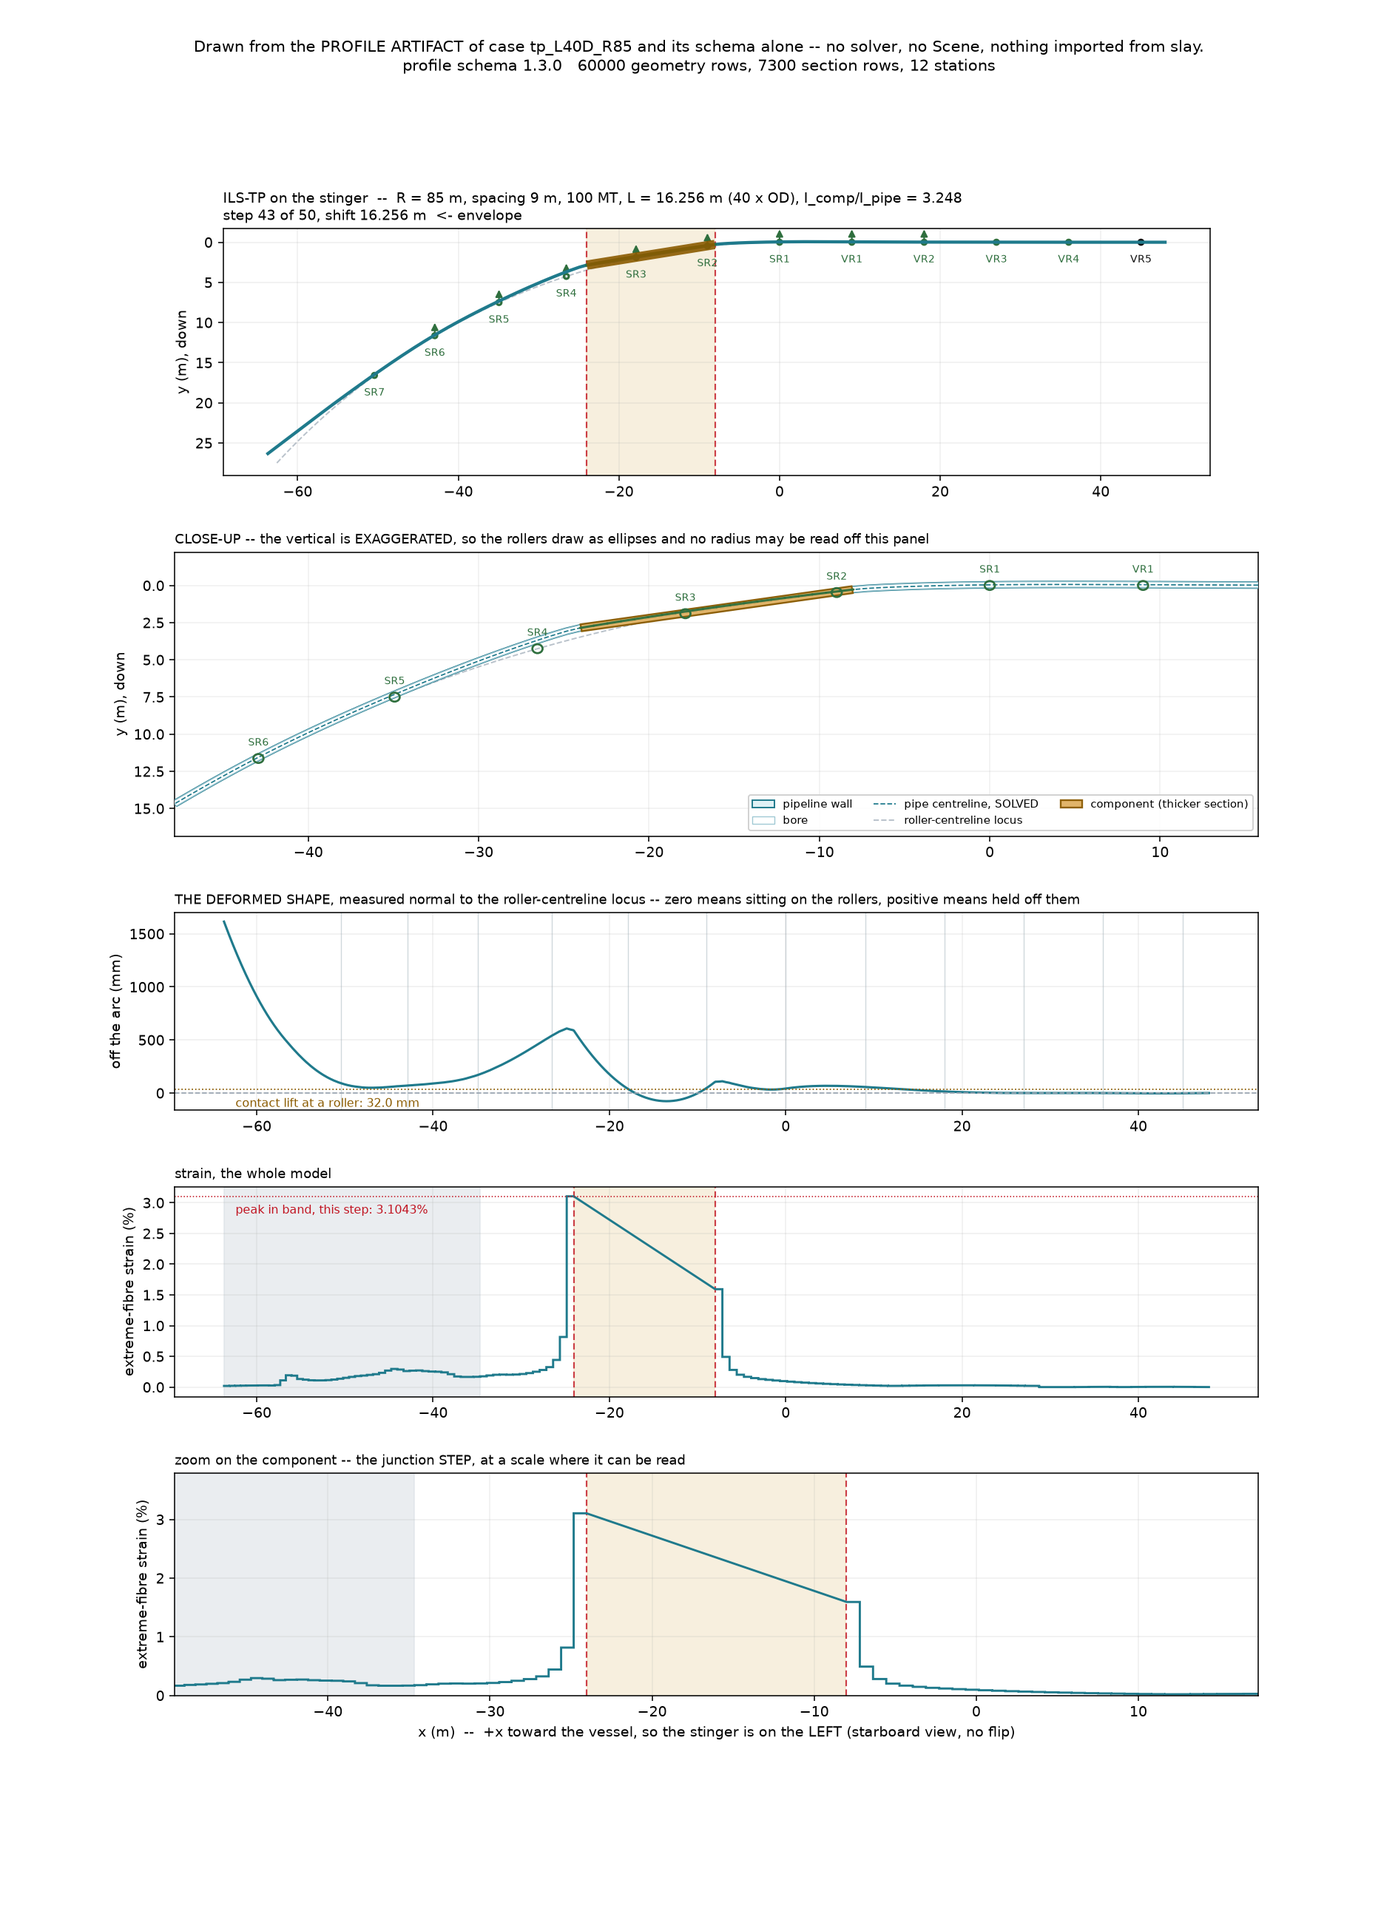
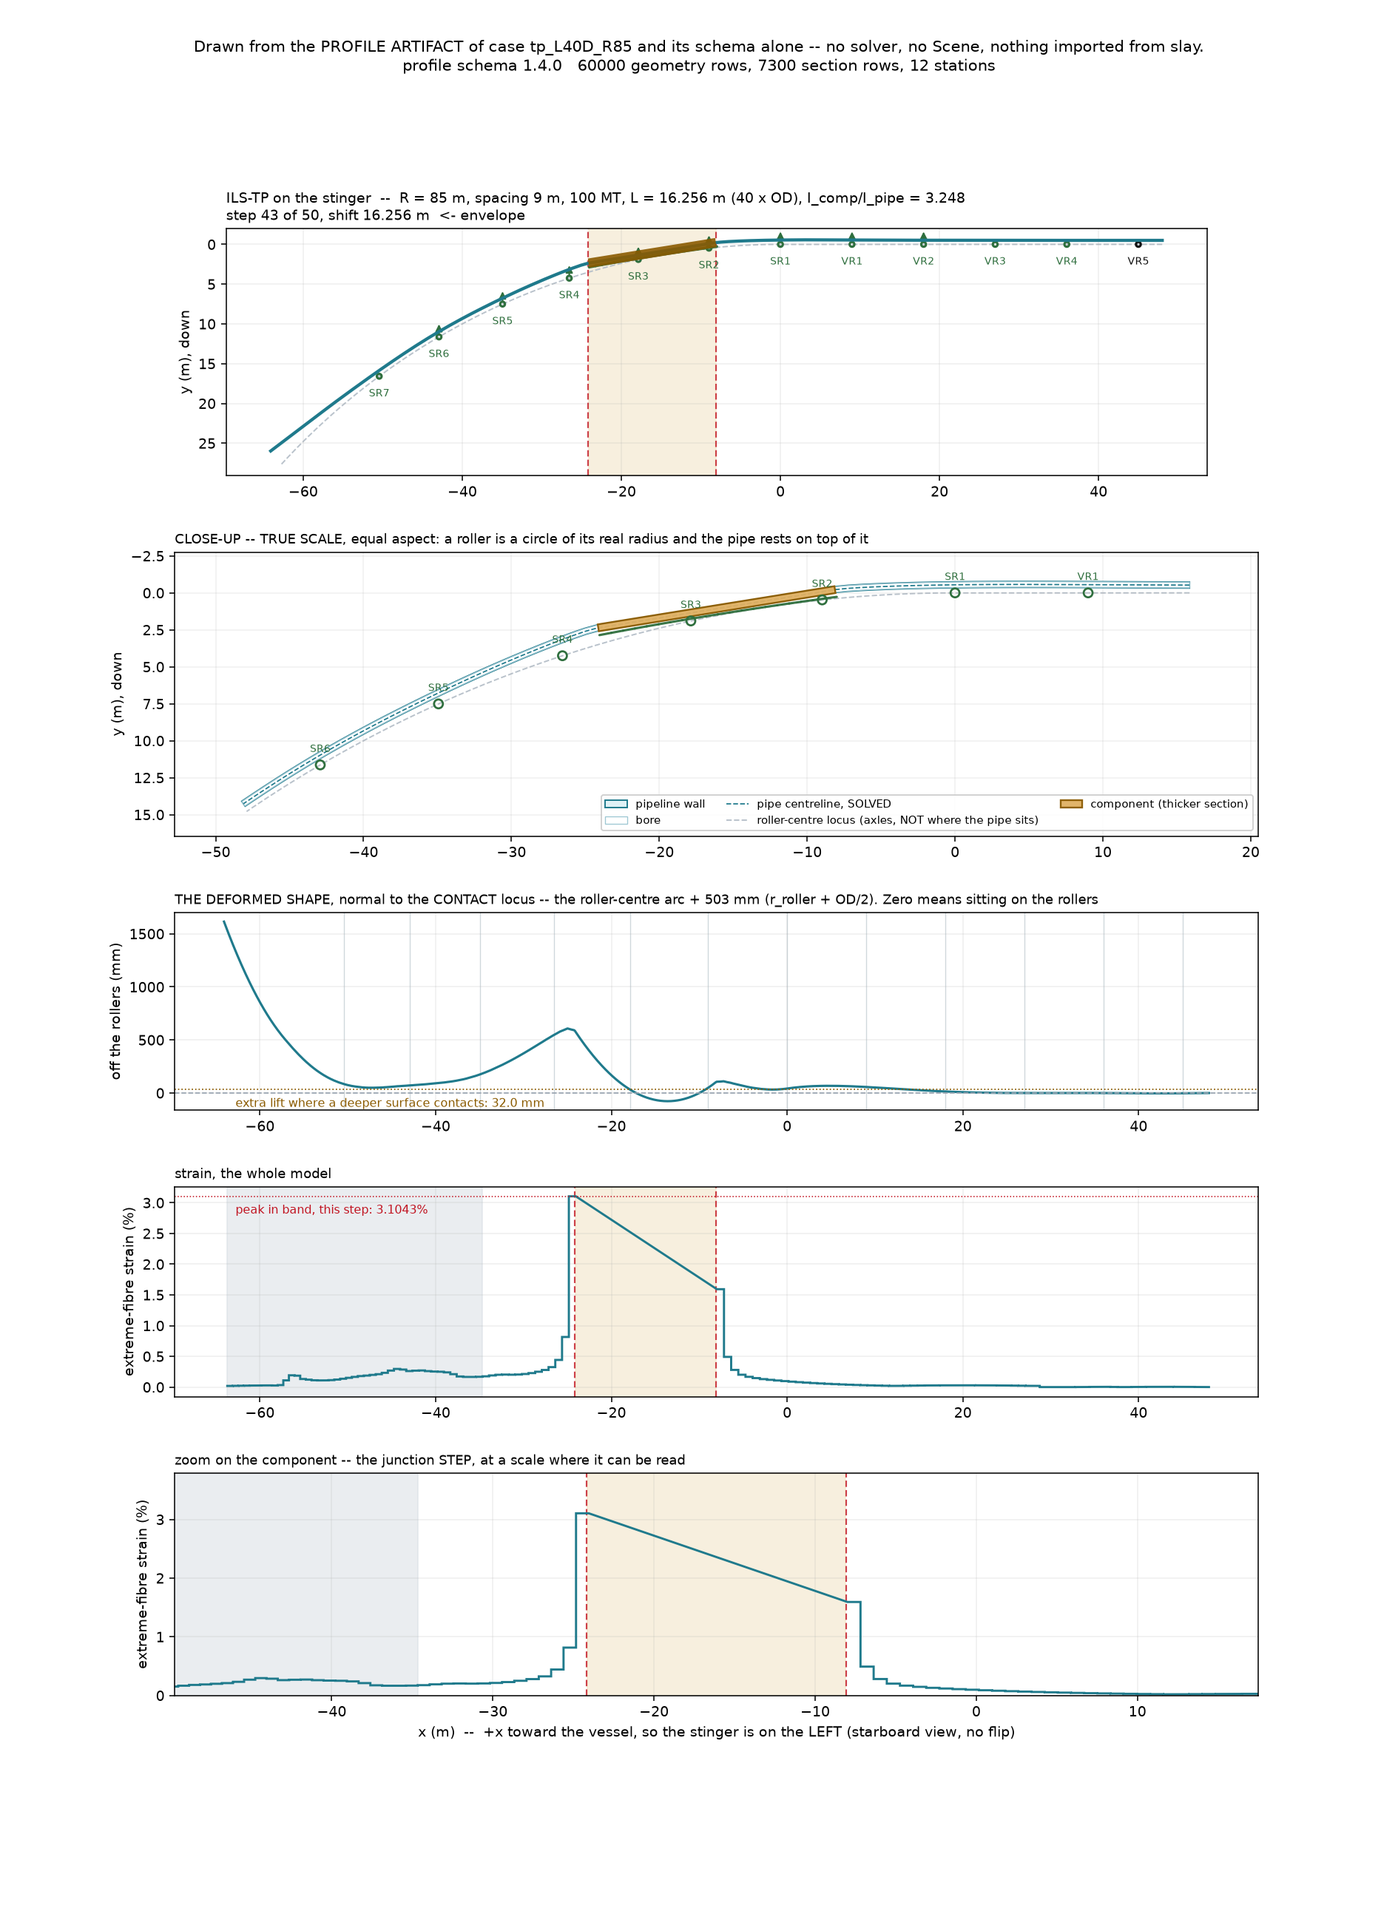
report: the pipe rides on the roller TOPS, not through the axles
Spotted from a figure: the pipe centreline drew straight through the roller
centres. Measured, the solved centreline sat 18 to 72 mm off the
roller-centre arc where it should sit 503 mm above it, and `off_arc` -- the
column whose schema says "0 means sitting on the rollers" -- read about 0
for a pipe that WAS sitting on them.

THE ANALYSIS WAS NEVER WRONG, and that was checked before anything was
changed. Contact targets deepen by exactly R_eff / R = 1.00592 at every
station, so the roller radius enters through the curvature exactly as
`physics.contact` documents and intends. `LayPath.R` is measured to the
roller CENTRELINE, so `path.position` is where the AXLES are --
`report.profile` compared the solved centreline against that locus and
called the difference `off_arc`. What was missing was the DATUM the result
is reported against, not the physics.

SO IT IS FIXED IN REPORTING AND THE SOLVE IS UNTOUCHED, and that is exact
rather than convenient: every station carries the same 0.3 m roller -- a
deck roller holds the pipe up by as much as a stinger roller -- so lifting
the whole reported pipe by r_roller + OD/2 is a RIGID TRANSLATION, and a
rigid translation produces no strain. That is the same argument
physics.contact makes for keeping the radius in the curvature, and it is
why the earlier attempt recorded there FAILED: it lifted the rollers while
the anchor stayed pinned at zero, which is a kink and not a translation,
[…]

diff --git a/rebuild/tests/test_contact_datum.py b/rebuild/tests/test_contact_datum.py
@@ -1,0 +1,91 @@
+"""The reported pipe rides on the roller TOPS, not through the axles.
+
+L099. `LayPath.R` is measured to the roller CENTRELINE, so `path.position`
+is where the axles are. The profile writer compared the solved centreline
+against that locus and called the difference `off_arc` -- so a pipe sitting
+correctly on every roller reported about 0 mm off the arc, and the figures
+drew it passing through the rollers.
+
+THE ANALYSIS WAS NEVER WRONG. Contact targets deepen by exactly
+R_eff / R = 1.00592, so the roller radius enters through the curvature as
+`physics.contact` documents and intends. What was missing was the datum the
+RESULT is reported against, which is why this is fixed in reporting and the
+solve is untouched.
+
+WHY THAT IS EXACT AND NOT AN APPROXIMATION. Every station carries the same
+roller radius -- a deck roller holds the pipe up by exactly as much as a
+stinger roller -- so lifting the whole reported pipe by `r_roller + OD/2` is
+a RIGID TRANSLATION, and a rigid translation produces no strain. It stops
+being one the moment the radii differ, so that is checked rather than
+assumed.
+
+AND ONLY A PICTURE COULD HAVE FOUND IT. No numeric test in this repo
+compares an elevation against anything; every one of them is a strain, a
+moment or a ratio, and all of those were right.
+"""
+from __future__ import annotations
+
+import pytest
+
+pytest.importorskip('numpy')
+
+from slay.model.assemble import build_model                   # noqa: E402
+from slay.physics import contact as ct                        # noqa: E402
+from slay.report import profile as rprof                      # noqa: E402
+from slay.report import profile_schema as ps                  # noqa: E402
+from slay.scene.scene import build_scene                      # noqa: E402
+
+OD = 0.4064
+R_ROLLER = 0.30
+OFFSET = R_ROLLER + OD / 2.0          # 0.5032 m
+
+
+def test_the_offset_is_the_roller_radius_plus_the_pipe_radius():
+    """Stated as the arithmetic it is, so a reader need not trust a name."""
+    assert OFFSET == pytest.approx(0.5032)
+
+
+def test_the_schema_declares_the_contact_offset():
+    """Carried per sample because a plotter cannot ask the Scene for the
+    roller radius, and without it `off_arc` reads half a metre everywhere
+    and contact cannot be told from lift-off."""
+    assert 'contact_offset' in ps.header('geometry')
+    assert ps.PROFILE_SCHEMA_VERSION >= '1.4.0'
+
+
+def test_the_arc_columns_are_documented_as_the_AXLE_locus():
+    """The column did not change meaning -- the description did, because it
+    was being read as 'where the pipe sits' and it never was."""
+    arc = ps.describe('geometry', 'arc_x').about.lower()
+    off = ps.describe('geometry', 'off_arc').about.lower()
+    assert 'axle' in arc and 'not where the pipe sits' in arc
+    assert 'contact locus' in off
+
+
+def test_differing_roller_radii_are_refused_not_averaged():
+    """With one radius the lift is a rigid translation. With two it is a
+    bend, and applying a single value would silently deform the reported
+    pipe -- which is the defect this test's own file is named for, in a new
+    place."""
+    sc = build_scene(R=85.0, spacing=9.0, radii={'SR3': 0.50})
+    m = build_model(sc)
+    with pytest.raises(ValueError, match='radii'):
+        rprof.geometry_rows(sc, m, None, None, None, 0.0, OD, 0.0,
+                            step=0, converged=True, context={})
+
+
+def test_the_contact_targets_still_carry_the_radius_through_curvature():
+    """The half of this that was already right, pinned so the reporting fix
+    cannot be mistaken for the physics fix. If this ever reads 1.0, the
+    roller radius has fallen out of the solve and the lift above would be
+    papering over it."""
+    probe = build_scene(R=85.0, spacing=9.0)
+    sc = build_scene(R=85.0, spacing=9.0,
+                     margin_stinger=ct.material_margin(probe))
+    m = build_model(sc)
+    cl = {t.station: t for t in
+          ct.contact_targets(m, sc, contact_surface='centreline')}
+    bo = {t.station: t for t in ct.contact_targets(m, sc)}
+    for n in ('SR2', 'SR4', 'SR6'):
+        assert bo[n].dn / cl[n].dn == pytest.approx(85.5032 / 85.0, rel=1e-9)
+        assert bo[n].R_eff == pytest.approx(85.5032)

diff --git a/rebuild/slay/report/profile.py b/rebuild/slay/report/profile.py
@@ -94,6 +94,37 @@ def geometry_rows(scene, model, ms, U, ils, s_centre, OD, shift, step,
     a shroud moves the second and not the first, and keeping them as separate
     columns is what stops a shroud being drawn as a stiffener (L073).
     """
+
+    # THE PIPE RIDES ON THE ROLLER TOPS, not through the axles.
+    #
+    # `LayPath.R` is measured to the roller CENTRELINE, so `path.position` is
+    # where the axles are. A pipe resting on a roller has its centreline
+    # `r_roller + OD/2` further out -- 0.5032 m at the standard 0.3 m roller.
+    # Until 6 Oct this table reported the solved centreline against the axle
+    # locus and called the difference `off_arc`, so a pipe sitting correctly
+    # on every roller read as ~0 off the arc and DREW THROUGH THE ROLLERS.
+    #
+    # WHY THIS IS A REPORTING FIX AND NOT A PHYSICS CHANGE. The offset is the
+    # same at every station -- deck rollers hold the pipe up by exactly as
+    # much as stinger rollers -- so applying it to the whole pipe is a RIGID
+    # TRANSLATION, and a rigid translation produces no strain. That is the
+    # same argument `physics.contact` makes for keeping the roller radius out
+    # of the targets and in the radius, and it is why the solve is untouched
+    # here: curvature already enters through `R_eff`, and what was missing
+    # was only the datum the result is reported against.
+    #
+    # IT STOPS BEING A TRANSLATION IF THE RADII DIFFER, so that is checked
+    # rather than assumed.
+    radii = {st.radius for st in scene.stations
+             if getattr(st, 'radius', None)}
+    if len(radii) > 1:
+        raise ValueError(
+            f'stations have different roller radii {sorted(radii)}, so the '
+            f'contact offset is not uniform and lifting the reported pipe by '
+            f'a single value would bend it. Report per station instead.')
+    r_roller = radii.pop() if radii else 0.0
+    contact_offset = r_roller + OD / 2.0
+
     nodes = _pipe_nodes(model, ms, U, shift)
     s_nodes = np.array([r[0] for r in nodes])
     x_nodes = np.array([r[1] for r in nodes])
@@ -102,13 +133,15 @@ def geometry_rows(scene, model, ms, U, ils, s_centre, OD, shift, step,
     s_dense = np.linspace(s_nodes.min(), s_nodes.max(), n)
     xs = np.interp(s_dense, s_nodes, x_nodes)
     ys = np.interp(s_dense, s_nodes, y_nodes)
-
     rows = []
     for k, s_mat in enumerate(s_dense):
         s_sta = float(s_mat) + shift
         ax, ay = scene.path.position(s_sta)
         nx, ny = scene.path.normal(s_sta)
-        px, py = float(xs[k]), float(ys[k])
+        # The solved centreline, lifted onto the roller tops. `normal` points
+        # from the roller toward the pipe, so this is a + and not a -.
+        px = float(xs[k]) + contact_offset * nx
+        py = float(ys[k]) + contact_offset * ny
         x_local = s_centre - float(s_mat)
         sec = ils.assembly.section_at(x_local) if ils is not None else None
         con = ils.assembly.contact_at(x_local) if ils is not None else None
@@ -118,7 +151,10 @@ def geometry_rows(scene, model, ms, U, ils, s_centre, OD, shift, step,
             sample=k, s_material=float(s_mat), s_station=s_sta,
             x=px, y=py, arc_x=float(ax), arc_y=float(ay),
             normal_x=float(nx), normal_y=float(ny),
-            off_arc=(px - ax) * nx + (py - ay) * ny,
+            contact_offset=contact_offset,
+            # measured above the CONTACT locus, so 0 is sitting on the
+            # rollers rather than impaled on their axles
+            off_arc=((px - ax) * nx + (py - ay) * ny) - contact_offset,
             OD_section=float(getattr(sec, 'OD', OD)) if sec else OD,
             t_section=float(getattr(sec, 't', 0.0) or 0.0) if sec else 0.0,
             y_contact=(float(getattr(con, 'y', OD / 2.0)) if con

diff --git a/rebuild/slay/report/profile_schema.py b/rebuild/slay/report/profile_schema.py
@@ -61,7 +61,7 @@ import re
 
 from slay.report.schema import IDX, M, NM, NONE, Field
 
-PROFILE_SCHEMA_VERSION = '1.3.0'
+PROFILE_SCHEMA_VERSION = '1.4.0'
 # 1.3.0  `owner` on the sections table: which BODY the element belongs to,
 #        as distinct from `section_owner`, which is whose SECTION it
 #        carries. An EA frame's elements carry the pipe's section but are
@@ -193,19 +193,30 @@ GEOMETRY = _identity('geometry') + CONTEXT + POSITION + [
     Field('y', 'float', M, 'length', 'value',
           'WORLD y of the solved centreline, +y DOWN', per='sample'),
     Field('arc_x', 'float', M, 'length', 'value',
-          'WORLD x of the roller-centreline locus at this s_station -- where '
-          'the pipe would sit if it lay on every roller', per='sample'),
+          'WORLD x of the ROLLER-CENTRE locus at this s_station -- the arc '
+          'LayPath.R is measured to, which is where the roller AXLES are and '
+          'NOT where the pipe sits. The pipe rests on the roller TOPS, '
+          '`contact_offset` above this', per='sample'),
     Field('arc_y', 'float', M, 'length', 'value',
-          'WORLD y of that locus', per='sample'),
+          'WORLD y of the roller-centre locus', per='sample'),
+    Field('contact_offset', 'float', M, 'length', 'value',
+          'r_roller + OD/2 -- how far above the roller-centre locus the pipe '
+          'CENTRELINE rides when it is sitting on the rollers. 0.5032 m at '
+          'the standard 0.3 m roller and 406.4 mm pipe. Carried per sample '
+          'because a plotter cannot ask the Scene for the roller radius, and '
+          'because without it `off_arc` reads 0.5 m everywhere and a reader '
+          'cannot tell contact from half a metre of lift-off (6 Oct 2026)',
+          per='sample'),
     Field('normal_x', 'float', NONE, 'direction', 'value',
           'unit normal of the LOCUS at this s_station, world frame. Carried '
           'because a plotter cannot ask the Scene for it', per='sample'),
     Field('normal_y', 'float', NONE, 'direction', 'value',
           'unit normal of the locus, world frame', per='sample'),
     Field('off_arc', 'float', M, 'length', 'value',
-          'signed distance of the solved centreline off the locus, ALONG '
-          'THE NORMAL: 0 means sitting on the rollers, positive means held '
-          'off them. Not a vertical gap -- the two differ by cos(theta), '
+          'signed distance of the solved centreline above the CONTACT locus '
+          '(the roller-centre locus plus `contact_offset`), ALONG THE '
+          'NORMAL: 0 means sitting on the rollers, positive means held off '
+          'them. Not a vertical gap -- the two differ by cos(theta), '
           'which is 20% at SR7. THIS IS THE ONLY PANEL A SHROUD IS VISIBLE '
           'ON: GD-SH lifts the pipe 203 mm and adds no stiffness, which on a '
           'panel spanning 20 m of stinger drop is a third of a pixel',

diff --git a/tools/plot_from_schema.py b/tools/plot_from_schema.py
@@ -633,7 +633,7 @@ def plot_profile(prof, out, step=None):
             label='pipe centreline, SOLVED')
     ex.plot(col(g, 'arc_x')[lo:hi + 1], col(g, 'arc_y')[lo:hi + 1],
             color='#b9c2cb', lw=1.0, ls='--', zorder=1,
-            label='roller-centreline locus')
+            label='roller-centre locus (axles, NOT where the pipe sits)')
 
     if sp_sec:                       # a body that REPLACES the pipe section
         a, b = sp_sec
@@ -672,9 +672,15 @@ def plot_profile(prof, out, step=None):
     ymid = 0.5 * (qy.min() + qy.max())
     span = max(qy.max() - qy.min(), 1e-6)
     ex.set_ylim(ymid + 0.62 * span + OD, ymid - 0.62 * span - OD)
-    ex.set_aspect('auto')
-    ex.set_title('CLOSE-UP -- the vertical is EXAGGERATED, so the rollers '
-                 'draw as ellipses and no radius may be read off this panel',
+    # TRUE SCALE. This panel used to stretch the vertical to make the pipe
+    # wall visible, which drew every roller as a flat ellipse and made the
+    # pipe appear to pass through the roller axles -- a picture nobody can
+    # check a geometry against. Equal aspect costs the wall thickness in a
+    # 20 m window and buys a figure where a roller is a circle of its stated
+    # radius and the pipe visibly rests on top of it (6 Oct 2026).
+    ex.set_aspect('equal', adjustable='datalim')
+    ex.set_title('CLOSE-UP -- TRUE SCALE, equal aspect: a roller is a circle '
+                 'of its real radius and the pipe rests on top of it',
                  fontsize=9.5, loc='left')
     ex.set_ylabel('y (m), down')
     ex.grid(alpha=0.18)
@@ -687,16 +693,18 @@ def plot_profile(prof, out, step=None):
         lift = max(col(g, 'y_contact')) - OD / 2.0
         if lift > 1e-6:
             dx.axhline(lift * 1e3, color='#8a5a00', lw=0.9, ls=':')
-            dx.annotate(f'contact lift at a roller: {lift * 1e3:.1f} mm',
+            dx.annotate(f'extra lift where a deeper surface contacts: '
+                        f'{lift * 1e3:.1f} mm',
                         (px.min(), lift * 1e3), textcoords='offset points',
                         xytext=(8, -12), fontsize=8, color='#8a5a00',
                         ha='left')
     for r in sta:
         dx.axvline(float(r['x']), color='#cfd8dc', lw=0.7, zorder=0)
-    dx.set_ylabel('off the arc (mm)')
-    dx.set_title('THE DEFORMED SHAPE, measured normal to the '
-                 'roller-centreline locus -- zero means sitting on the '
-                 'rollers, positive means held off them',
+    dx.set_ylabel('off the rollers (mm)')
+    off0 = (col(g, 'contact_offset') or [0.0])[0]
+    dx.set_title(f'THE DEFORMED SHAPE, normal to the CONTACT locus -- the '
+                 f'roller-centre arc + {off0 * 1e3:.0f} mm (r_roller + OD/2). '
+                 f'Zero means sitting on the rollers',
                  fontsize=9.5, loc='left')
     dx.grid(alpha=0.2)
 

diff --git a/rebuild/tests/test_plot_from_profile.py b/rebuild/tests/test_plot_from_profile.py
@@ -56,6 +56,12 @@ def test_the_plotter_imports_nothing_from_slay():
 R = 85.0
 OD = 0.4064
 T_WALL = 0.0210
+R_ROLLER = 0.30
+# Where the pipe centreline sits when it is resting on the rollers: the
+# roller-centre locus plus the roller radius plus the pipe radius. 0.5032 m,
+# which is larger than most of the lift-off this fixture models -- the whole
+# reason `off_arc` is reported relative to it rather than to the axles.
+CONTACT_OFFSET = R_ROLLER + OD / 2.0
 N = 160
 S_MAX = 40.0
 S_LO, S_HI = 16.0, 22.0        # the component's material span
@@ -97,13 +103,17 @@ def _geometry(step, shift, shroud=False):
         th = s_sta / R
         nx, ny = math.sin(th), -math.cos(th)
         lift = 0.02 * math.exp(-((s - 19.0) / 3.0) ** 2)
-        px, py = ax - lift * nx, ay - lift * ny
+        # The pipe rides on the roller TOPS, `CONTACT_OFFSET` above the
+        # roller-centre locus, with `lift` the extra it is held off by.
+        px = ax + (CONTACT_OFFSET + lift) * nx
+        py = ay + (CONTACT_OFFSET + lift) * ny
         inside = S_LO <= s <= S_HI
         r = {k_: v for k_, v in ctx.items() if k_ in ps.header('geometry')}
         r.update(table='geometry', step=step, shift=shift, converged=True,
                  sample=k, s_material=s, s_station=s_sta, x=px, y=py,
                  arc_x=ax, arc_y=ay, normal_x=nx, normal_y=ny,
-                 off_arc=(px - ax) * nx + (py - ay) * ny,
+                 contact_offset=CONTACT_OFFSET,
+                 off_arc=((px - ax) * nx + (py - ay) * ny) - CONTACT_OFFSET,
                  OD_section=(0.49 if (inside and not shroud) else OD),
                  t_section=T_WALL,
                  y_contact=(OD / 2.0 + 0.2 if (inside and shroud)

diff --git a/docs/validation/VALIDATION_v3.0_2026-10-06.md b/docs/validation/VALIDATION_v3.0_2026-10-06.md
@@ -185,6 +185,11 @@ midspan / roller below midspan"), with the pipeline's own maximum beside it.*
 | 85 m | 20 D | 53 mm | 1.861% | 1.4016% | −24.7% | 1977 kN·m | 1414 kN·m | −28.5% | 1393 |
 | 85 m | 40 D | 53 mm | 1.914% | 3.1043% | **+62.2%** | 2883 kN·m | 1518 kN·m | **−47.3%** | 1472 |
 
+*Figures redrawn 6 Oct at profile schema 1.4.0, which put the reported pipe
+on the roller TOPS rather than through the axles (L099). The strain and
+moment are unchanged — the lift is a rigid translation — and so is every
+`off_arc` figure below, which was always measured relative to contact.*
+
 **Drawn at the governing step**, both cases, from the profile artifacts:
 `docs/diagrams/tp_L20D_R85_maxBM.png` and `tp_L40D_R85_maxBM.png` — the step
 at which the **component body** carries its maximum moment, which is what
